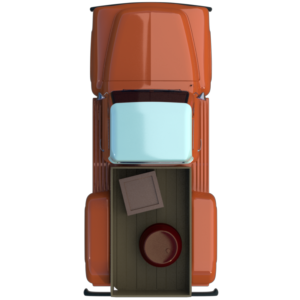
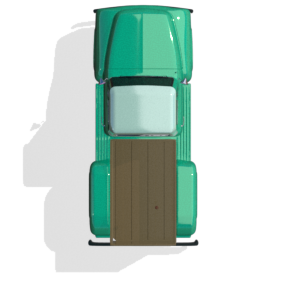
podmiana enemies

diff --git a/vertical/game_objects/enemy/enemy_slow.go b/vertical/game_objects/enemy/enemy_slow.go
@@ -63,8 +63,8 @@ embedded_components {
 embedded_components {
   id: "sprite"
   type: "sprite"
-  data: "tile_set: \"/vertical/assets/gfx/enemies/enemies.atlas\"\n"
-  "default_animation: \"impala_shadow_A\"\n"
+  data: "tile_set: \"/vertical/game_objects/enemy/enemies_2.atlas\"\n"
+  "default_animation: \"big_truck_solo_A\"\n"
   "material: \"/builtins/materials/sprite.material\"\n"
   "blend_mode: BLEND_MODE_ALPHA\n"
   ""
@@ -74,9 +74,9 @@ embedded_components {
     z: 0.0
   }
   rotation {
-    x: 6.123234E-17
-    y: 6.123234E-17
-    z: -1.0
-    w: -6.123234E-17
+    x: 0.0
+    y: 0.0
+    z: 6.123234E-17
+    w: 1.0
   }
 }

diff --git a/vertical/game_objects/enemy/enemy.go b/vertical/game_objects/enemy/enemy.go
@@ -63,7 +63,7 @@ embedded_components {
 embedded_components {
   id: "sprite"
   type: "sprite"
-  data: "tile_set: \"/vertical/assets/gfx/enemies/enemies.atlas\"\n"
+  data: "tile_set: \"/vertical/game_objects/enemy/enemies_2.atlas\"\n"
   "default_animation: \"big_truck_solo_A\"\n"
   "material: \"/builtins/materials/sprite.material\"\n"
   "blend_mode: BLEND_MODE_ALPHA\n"
